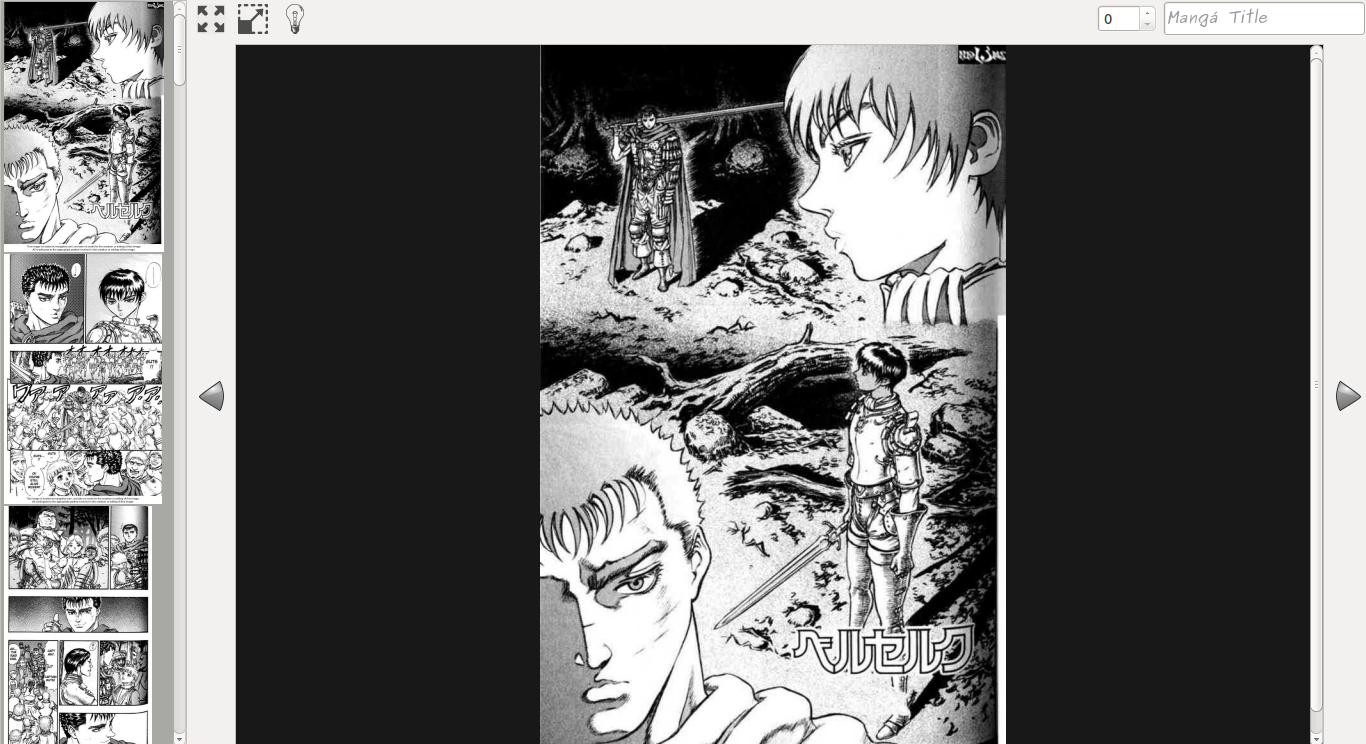
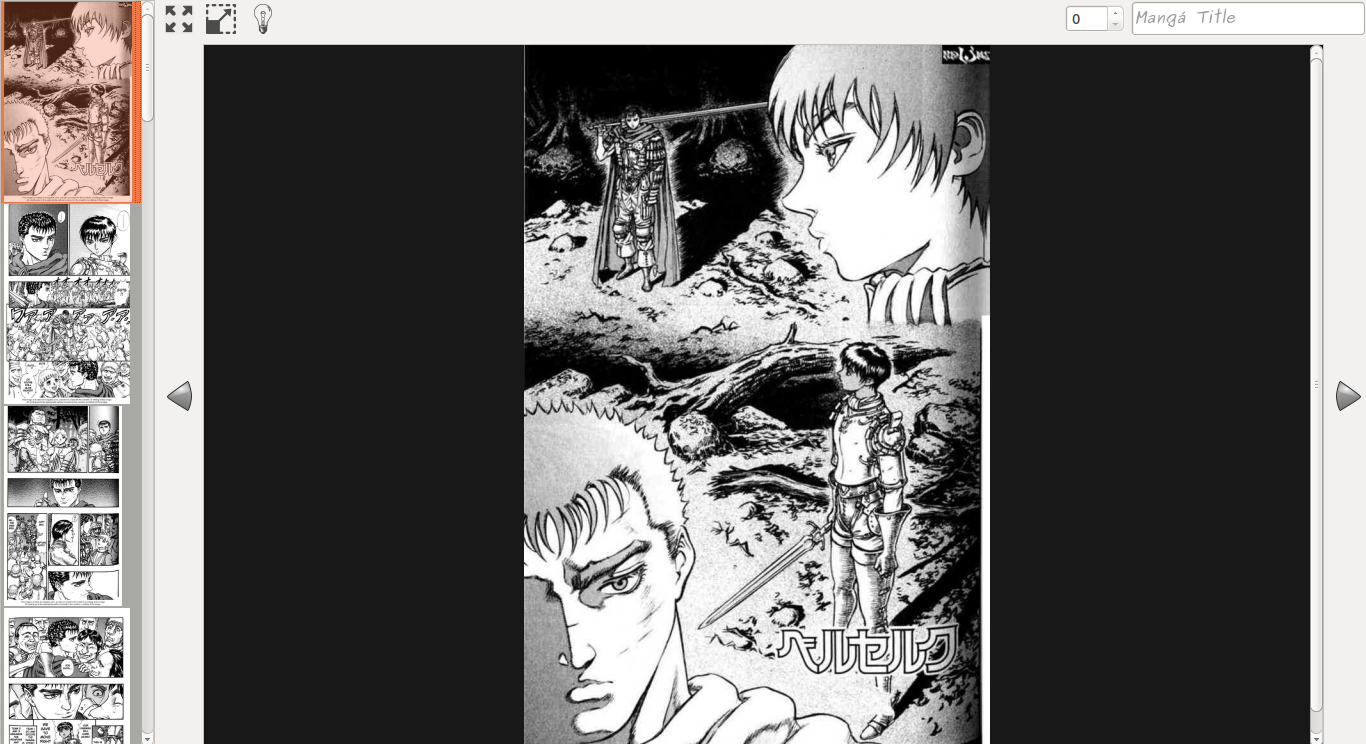
thumb size

diff --git a/thumbnails.py b/thumbnails.py
@@ -17,7 +17,7 @@ class ImageFileList(QtGui.QListWidget):
         QtGui.QListWidget.__init__(self, parent)
         # print(dirpath)
         self.setMinimumWidth(self.sizeHintForColumn(0))
-        self.setIconSize(QtCore.QSize(250,250))
+        self.setIconSize(QtCore.QSize(200,200))
         self.setDirpath(dirpath)
 
         self.setStyleSheet( """ QListWidget:item:selected {

diff --git a/fullScreen.py b/fullScreen.py
@@ -1,0 +1,7 @@
+#! /usr/bin/env env
+# -*- coding: utf-8 -*-
+
+from PySide import QtCore, QtGui
+
+
+class fullScreen
